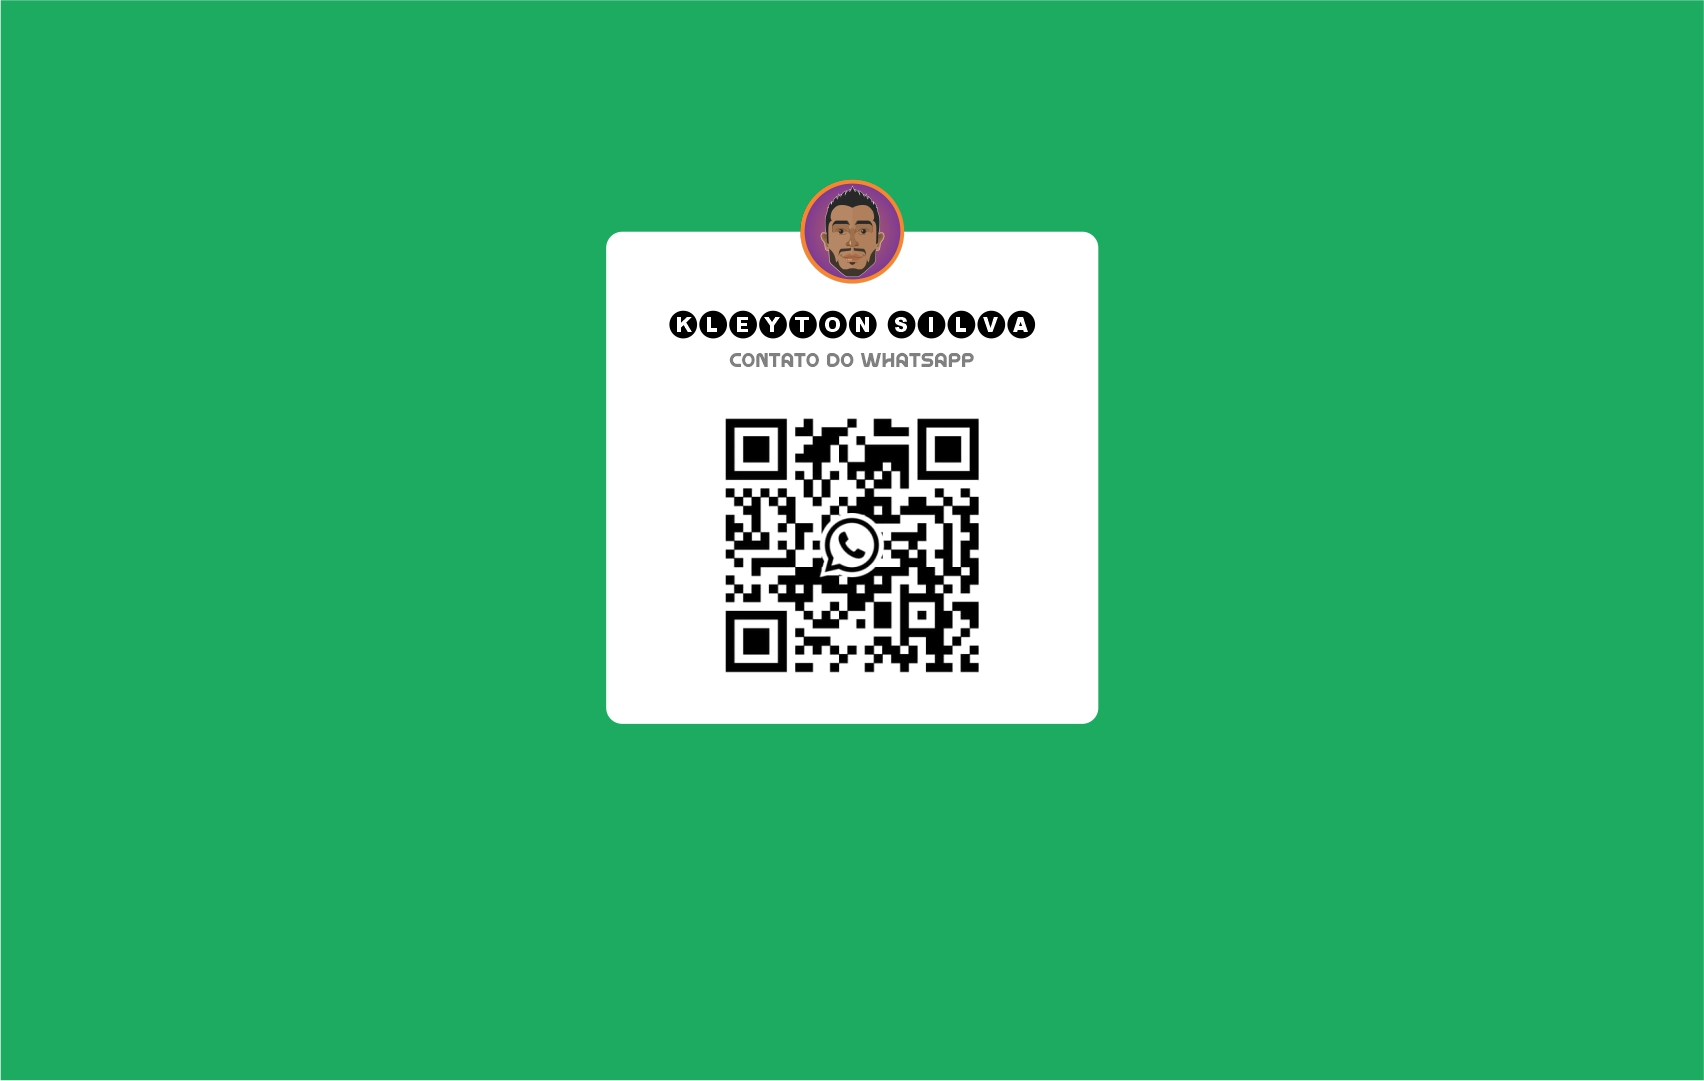
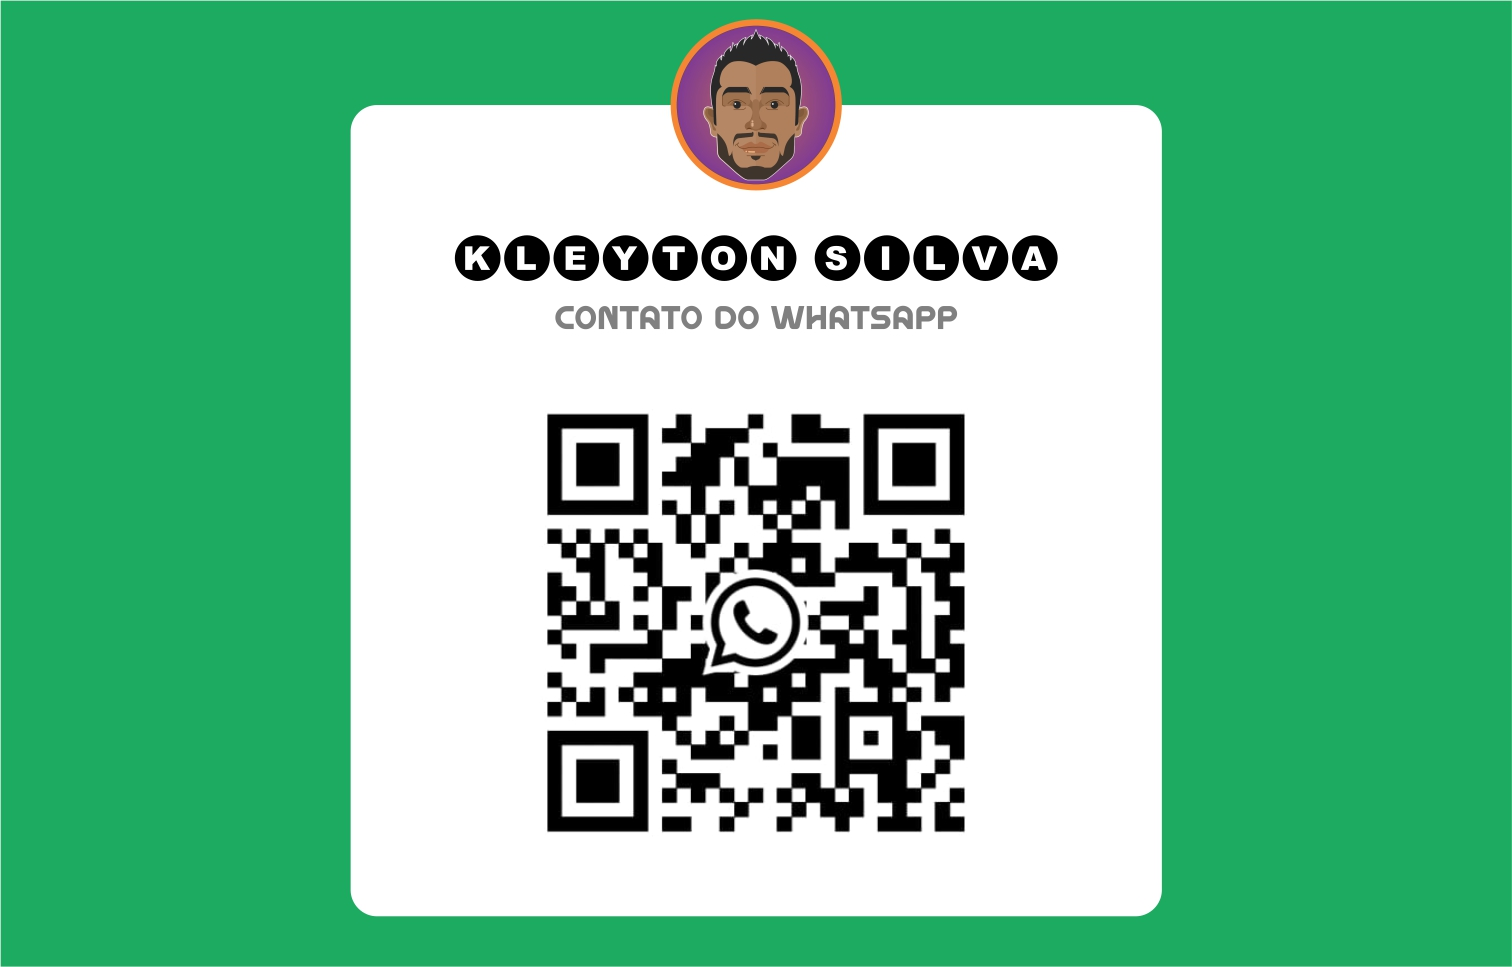
Login: atualizar imagens dos QR codes de contato (WhatsApp/Instagram/E-mail) (#143)
Substitui as imagens de WhatsApp e Instagram pelas novas fornecidas pelo
usuário e adiciona a imagem de E-mail que faltava (só havia um TODO no
código, o modal de e-mail nunca mostrou QR code até agora). Links e
comportamento de cada modal continuam os mesmos — só a arte visual mudou.

Claude-Session: https://claude.ai/code/session_01TUYNYMVQ8Tr2BgytenG9J4

diff --git a/src/auth/LoginPage.tsx b/src/auth/LoginPage.tsx
@@ -7,6 +7,7 @@ import '../styles/login-retro-future.css';
 import gvLogo from '../assets/brand/gv-logo.png';
 import whatsappQr from '../assets/brand/whatsapp-qr.jpg';
 import instagramQr from '../assets/brand/instagram-qr.jpg';
+import emailQr from '../assets/brand/email-qr.jpg';
 
 type Tab = 'admin' | 'colaborador';
 type SocialModal = 'whatsapp' | 'instagram' | 'email' | null;
@@ -88,8 +89,7 @@ function SocialQrModal({ kind, onClose }: { kind: 'whatsapp' | 'instagram' | 'em
     return () => document.removeEventListener('keydown', onKeyDown);
   }, [onClose]);
 
-  // TODO: swap in the e-mail QR card image once it's available.
-  const qrImage = kind === 'whatsapp' ? whatsappQr : kind === 'instagram' ? instagramQr : null;
+  const qrImage = kind === 'whatsapp' ? whatsappQr : kind === 'instagram' ? instagramQr : emailQr;
   const url = kind === 'whatsapp' ? buildWhatsAppLink(WHATSAPP_NUMBER) : kind === 'instagram' ? INSTAGRAM_URL : `mailto:${EMAIL_ADDRESS}`;
   const label = kind === 'whatsapp' ? 'WhatsApp' : kind === 'instagram' ? 'Instagram' : 'E-mail';
 
